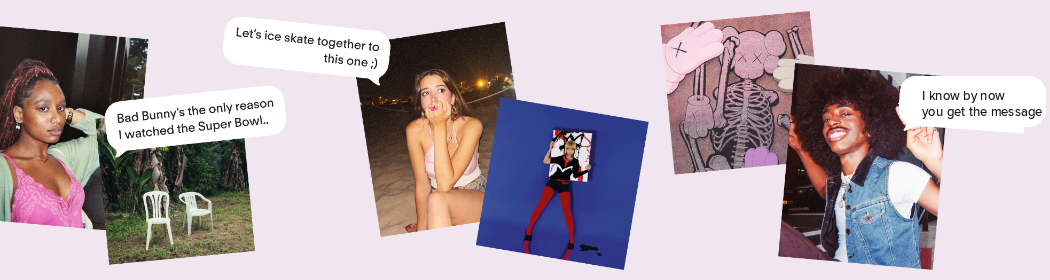
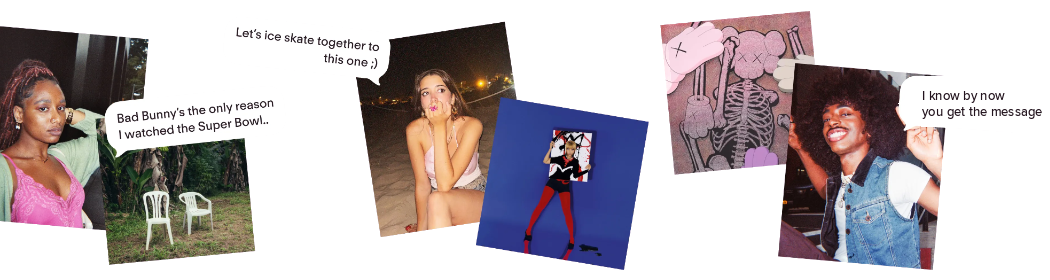
White Background No Skips Page

diff --git a/src/components/HingeLabsSection.jsx b/src/components/HingeLabsSection.jsx
@@ -56,22 +56,18 @@ export default function HingeLabsSection() {
 
         {/* Right Column: Labs Information Content (Bottom to Top Fade In with slight stagger) */}
         <div
-          className={`w-full md:w-[533px] flex-1 flex flex-col justify-start px-6 sm:px-10 md:px-0 md:pl-[94px] pt-6 md:pt-[210px] pb-6 md:pb-0 transition-opacity duration-300 ${
+          className={`w-full md:w-[533px] flex-1 flex flex-col justify-start px-6 sm:px-10 md:px-0 md:pl-[94px] pt-6 md:pt-[150px] pb-6 md:pb-0 transition-opacity duration-300 ${
             isVisible ? 'labs-fade-in-up-delayed' : 'opacity-0'
           }`}
         >
-
-
           {/* Headline */}
-          <h2 className="font-tiempos font-bold text-[2rem] sm:text-[2.2rem] md:text-[35.5px] leading-[1.05] tracking-[-0.015em] text-mirrorBlack antialiased mb-[34px]">
+          <h2 className="font-tiempos font-bold text-[2.25rem] sm:text-[2.65rem] md:text-[42px] leading-[1.08] tracking-[-0.015em] text-mirrorBlack antialiased mb-6 md:mb-[28px]">
             We&rsquo;re building a better way to date.
           </h2>
 
           {/* Body Paragraph */}
-          <p className="font-modern font-normal text-[13px] md:text-[13.5px] leading-[19px] text-stone tracking-[0.005em] antialiased">
-            <span className="block md:whitespace-nowrap">Our AI learns who you are, understands what you want, and</span>
-            <span className="block md:whitespace-nowrap">searches for the people most compatible with you.</span>
-            <span className="block md:whitespace-nowrap">You don&rsquo;t swipe. You don&rsquo;t search. We do.</span>
+          <p className="font-modern font-normal text-[15px] sm:text-[16.5px] md:text-[17.5px] leading-[24px] sm:leading-[26px] md:leading-[27px] text-stone tracking-[0.005em] antialiased max-w-[440px]">
+            Our AI learns who you are, understands what you want, and searches for the people most compatible with you. You don&rsquo;t swipe. You don&rsquo;t search. We do.
           </p>
         </div>
       </div>

diff --git a/src/components/MusicModeSection.jsx b/src/components/MusicModeSection.jsx
@@ -34,7 +34,7 @@ export default function MusicModeSection() {
     <section
       ref={sectionRef}
       id="music-mode-section"
-      className="relative w-full bg-[#f1e6ef] text-[#360524] overflow-hidden select-none scroll-mt-[5.5rem]"
+      className="relative w-full bg-gray-100 text-[#360524] overflow-hidden select-none scroll-mt-[5.5rem]"
     >
       <div className="relative w-full max-w-[1024px] mx-auto pt-16 sm:pt-20 md:pt-[72px] pb-6 md:pb-[11px] box-border flex flex-col items-center">
         {/* Top Header Group (Icon + Title + Subtitle) */}
@@ -43,16 +43,6 @@ export default function MusicModeSection() {
             isVisible ? 'music-fade-in-up' : 'opacity-0 translate-y-8'
           }`}
         >
-          {/* Magenta Music Note Icon */}
-          <div className="w-[35px] h-[35px] flex items-center justify-center mb-[14px] hover:scale-110 transition-transform duration-300">
-            <img
-              src="/images/music_note_transparent.png"
-              alt="Music Mode Note Icon"
-              className="w-[35px] h-[35px] object-contain drop-shadow-[0_2px_4px_rgba(254,0,155,0.15)]"
-              loading="lazy"
-            />
-          </div>
-
           {/* Section Headline */}
           <h2 className="font-tiempos font-bold text-[28px] sm:text-[32px] md:text-[35.5px] leading-[1.05] tracking-[-0.015em] text-[#350322] antialiased mb-[13px]">
             No skips
